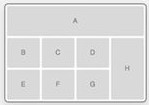
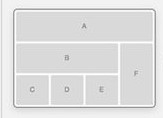
+homework 1 2 3

diff --git a/lesson4/homework3/index.html b/lesson4/homework3/index.html
@@ -1,0 +1,34 @@
+<!DOCTYPE html>
+<html lang="en">
+<head>
+    <meta charset="UTF-8">
+    <title>Lesson4 HW2</title>
+    <link rel="stylesheet" href="main.css">
+
+</head>
+<body>
+
+<div class="box-main fl-d-column">
+    <div class="box h250 mrg-10 bgr-silv"><p>A</p></div>
+    <div class="box mrg-l-10">
+        <div class="box fl-d-column">
+
+            <div class="box j-cnt-sps-between">
+                <div class="box w250 h250 bgr-silv mrg-r-10 mrg-bt-10"><p>B</p></div>
+                <div class="box w250 h250 bgr-silv mrg-r-10 mrg-bt-10"><p>C</p></div>
+                <div class="box w250 h250 bgr-silv mrg-r-10 mrg-bt-10"><p>D</p></div>
+            </div>
+
+            <div class="box j-cnt-sps-between">
+                <div class="box w250 h250 bgr-silv mrg-r-10 mrg-bt-10"><p>E</p></div>
+                <div class="box w250 h250 bgr-silv mrg-r-10 mrg-bt-10"><p>F</p></div>
+                <div class="box w250 h250 bgr-silv mrg-r-10 mrg-bt-10"><p>G</p></div>
+            </div>
+
+        </div>
+        <div class="box w250 h510 bgr-silv mrg-r-10 mrg-bt-10"><p>H</p></div>
+    </div>
+</div>
+
+</body>
+</html>

diff --git a/lesson4/homework2/index.html b/lesson4/homework2/index.html
@@ -1,0 +1,30 @@
+<!DOCTYPE html>
+<html lang="en">
+<head>
+    <meta charset="UTF-8">
+    <title>Lesson4 HW2</title>
+    <link rel="stylesheet" href="main.css">
+
+</head>
+<body>
+
+<div class="box-main fl-d-column">
+    <div class="box h250 mrg-10 bgr-silv"><p>A</p></div>
+    <div class="box mrg-l-10">
+        <div class="box fl-d-column">
+
+            <div class="box h250 w770 bgr-silv mrg-r-10 mrg-bt-10"><p>B</p></div>
+
+            <div class="box j-cnt-sps-between">
+                <div class="box w250 h250 bgr-silv mrg-r-10 mrg-bt-10"><p>C</p></div>
+                <div class="box w250 h250 bgr-silv mrg-r-10 mrg-bt-10"><p>D</p></div>
+                <div class="box w250 h250 bgr-silv mrg-r-10 mrg-bt-10"><p>E</p></div>
+            </div>
+
+        </div>
+        <div class="box w250 h510 bgr-silv mrg-r-10 mrg-bt-10"><p>F</p></div>
+    </div>
+</div>
+
+</body>
+</html>

diff --git a/lesson4/homework2/main.css b/lesson4/homework2/main.css
@@ -1,0 +1,57 @@
+.box-main {
+    border: 3px solid black;
+    border-radius: 20px;
+    width: 1000px;
+}
+
+.fl-d-column {
+    flex-direction: column;
+}
+
+.j-cnt-sps-between {
+    justify-content: space-between
+}
+
+.box {
+    display: flex;
+    justify-content: center;
+    align-items: center;
+    font-size: 16pt;
+    font-family: Arial, Verdana, sans-serif;
+}
+
+.bgr-silv {
+    background: #d9d9d9;
+}
+
+.h250 {
+    height: 250px;
+}
+
+.h510 {
+    height: 510px;
+}
+
+.w250 {
+    width: 250px;
+}
+
+.w770 {
+    width: 770px;
+}
+
+.mrg-10 {
+    margin: 10px;
+}
+
+.mrg-l-10 {
+    margin-left: 10px;
+}
+
+.mrg-r-10 {
+    margin-right: 10px;
+}
+
+.mrg-bt-10 {
+    margin-bottom: 10px;
+}

diff --git a/lesson4/homework3/main.css b/lesson4/homework3/main.css
@@ -1,0 +1,53 @@
+.box-main {
+    border: 3px solid black;
+    border-radius: 20px;
+    width: 1000px;
+}
+
+.fl-d-column {
+    flex-direction: column;
+}
+
+.j-cnt-sps-between {
+    justify-content: space-between
+}
+
+.box {
+    display: flex;
+    justify-content: center;
+    align-items: center;
+    font-size: 16pt;
+    font-family: Arial, Verdana, sans-serif;
+}
+
+.bgr-silv {
+    background: #d9d9d9;
+}
+
+.h250 {
+    height: 250px;
+}
+
+.h510 {
+    height: 510px;
+}
+
+.w250 {
+    width: 250px;
+}
+
+.mrg-10 {
+    margin: 10px;
+}
+
+.mrg-l-10 {
+    margin-left: 10px;
+}
+
+.mrg-r-10 {
+    margin-right: 10px;
+}
+
+.mrg-bt-10 {
+    margin-bottom: 10px;
+}

diff --git a/lesson4/homework1/main.css b/lesson4/homework1/main.css
@@ -1,0 +1,53 @@
+.box-main {
+    border: 3px solid black;
+    border-radius: 20px;
+    width: 1000px;
+}
+
+.fl-d-column {
+    flex-direction: column;
+}
+
+.box {
+    display: flex;
+    justify-content: center;
+    align-items: center;
+    font-size: 16pt;
+    font-family: Arial, Verdana, sans-serif;
+}
+
+.bgr-silv {
+    background: #d9d9d9;
+}
+
+.h250 {
+    height: 250px;
+}
+
+.h500 {
+    height: 500px;
+}
+
+.w250 {
+    width: 250px;
+}
+
+.w750 {
+    width: 770px;
+}
+
+.mrg-10 {
+    margin: 10px;
+}
+
+.mrg-l-10 {
+    margin-left: 10px;
+}
+
+.mrg-r-10 {
+    margin-right: 10px;
+}
+
+.mrg-bt-10 {
+    margin-bottom: 10px;
+}

diff --git a/lesson4/homework1/index.html b/lesson4/homework1/index.html
@@ -1,0 +1,19 @@
+<!DOCTYPE html>
+<html lang="en">
+<head>
+    <meta charset="UTF-8">
+    <title>Lesson4 HW2</title>
+    <link rel="stylesheet" href="main.css">
+</head>
+<body>
+
+<div class="box-main fl-d-column">
+    <div class="box h250 mrg-10 bgr-silv"><p>A</p></div>
+    <div class="box mrg-l-10">
+        <div class="box h500 w750 bgr-silv mrg-r-10 mrg-bt-10"><p>B</p></div>
+        <div class="box h500 w250 bgr-silv mrg-r-10 mrg-bt-10"><p>C</p></div>
+    </div>
+</div>
+
+</body>
+</html>

diff --git a/lesson3/classwork2/main.css b/lesson3/classwork2/main.css
@@ -1,6 +1,7 @@
 .inbox-main {
     display: flex;
     height: 600px;
+    width: 800px;
     border: 3px solid black;
     border-radius: 10px;
     flex-direction: column;
